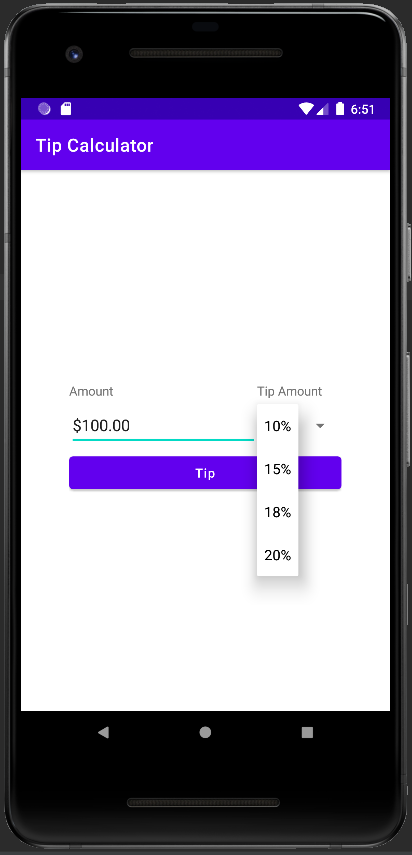
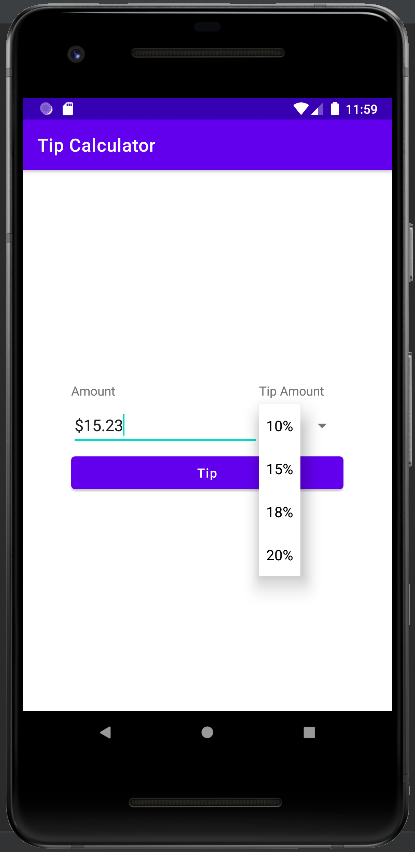
Change input format and update screenshots

diff --git a/app/src/main/java/edu/us/ischool/tipcalc/MainActivity.kt b/app/src/main/java/edu/us/ischool/tipcalc/MainActivity.kt
@@ -12,6 +12,7 @@ class MainActivity : AppCompatActivity(), AdapterView.OnItemSelectedListener {
     lateinit var textEdit : EditText
     lateinit var btn : Button
     lateinit var spinner : Spinner
+    lateinit var amt : String
     var tipAmount : Double = 0.0
 
     override fun onCreate(savedInstanceState: Bundle?) {
@@ -41,7 +42,7 @@ class MainActivity : AppCompatActivity(), AdapterView.OnItemSelectedListener {
                 btn.isEnabled = textEdit.text.toString().trim().isNotEmpty()
                 btn.isClickable = textEdit.text.toString().trim().isNotEmpty()
 
-                if (textEdit.text.toString() == "$0.00") {
+                if (textEdit.text.toString() == "$") {
                     btn.isEnabled = false
                     btn.isClickable = false
                 }
@@ -52,18 +53,23 @@ class MainActivity : AppCompatActivity(), AdapterView.OnItemSelectedListener {
             override fun onTextChanged(p0: CharSequence?, p1: Int, p2: Int, p3: Int) {
                 textEdit.removeTextChangedListener(this)
                 if (p0 != null) {
-                    val clean = p0.replace("[$,.]".toRegex(), "")
-                    var curr = NumberFormat.getCurrencyInstance().format(clean.toDouble() / 100)
-                    textEdit.setText(curr)
-                    textEdit.setSelection(curr.length)
+                    amt = p0.replace("[$]".toRegex(), "")
+                    var formatted : String = "$$amt"
+                    textEdit.setText(formatted)
+                    textEdit.setSelection(amt.length + 1)
+                    if (amt.contains('.') && amt.indexOf(".") < amt.length - 2) {
+                        formatted = formatted.substring(0, amt.indexOf(".") + 4)
+                        textEdit.setText(formatted)
+                        textEdit.setSelection(formatted.length)
+                    }
                 }
                 textEdit.addTextChangedListener(this)
             }
         })
 
         btn.setOnClickListener {
-            val input : Double = textEdit.text.toString().replace("[$,.]".toRegex(), "").toDouble()
-            val tip : String = NumberFormat.getCurrencyInstance().format(input * tipAmount / 100)
+            val input : Double = amt.replace("[$]".toRegex(), "").toDouble()
+            val tip : String = NumberFormat.getCurrencyInstance().format(input * tipAmount)
             Toast.makeText(this, tip, Toast.LENGTH_LONG).show()
         }
     }
